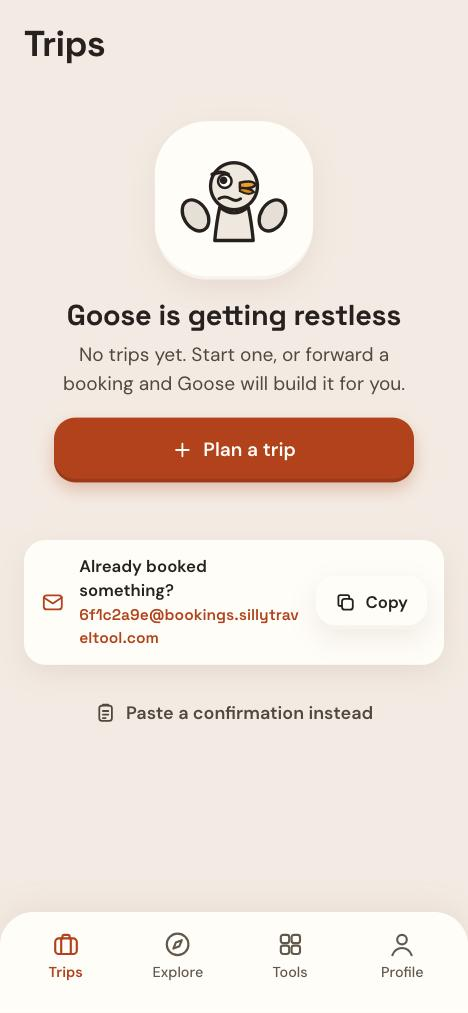
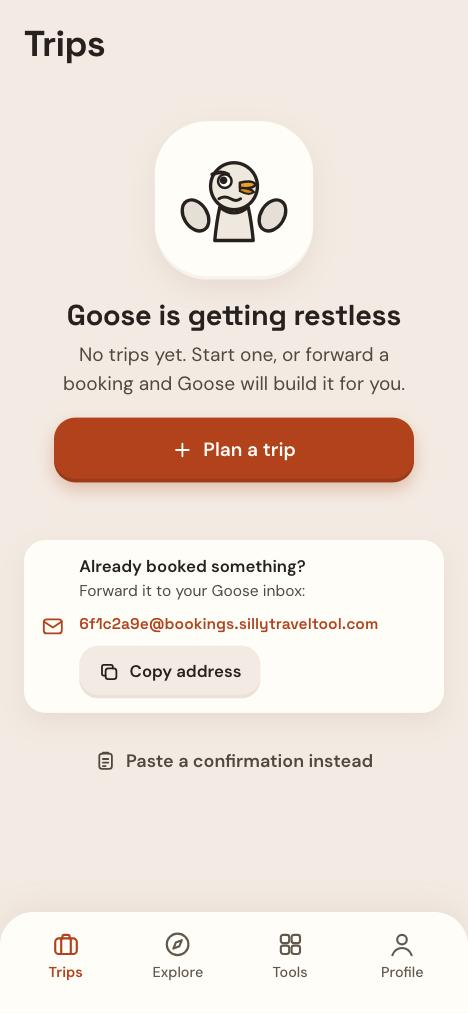
Clay finish: demo APK flag, Android splash colour, inbox address layout, refreshed screenshots, report
- VITE_DEMO=1 builds always run the offline demo (for a demo APK); production still compiles it out
- Android 12+ system splash uses surface-page (light) / dark page colour instead of the default lavender
- Settings and Trips empty state show the inbox address on its own line with the copy button below
- Re-took screenshots for screens the review fixes changed; Android splash + welcome from the emulator
- docs/CLAY_REPORT.md: what changed, review results, decisions needed, known issues

Changed region(s): [[0.0299, 0.5508, 0.9573, 0.7651]]

diff --git a/src/screens/trips/TripList.jsx b/src/screens/trips/TripList.jsx
@@ -188,9 +188,12 @@ export default function TripList({ onOpenToday, onOpenRecap, onImport }) {
             No trips yet. Start one, or forward a booking and Goose will build it for you.
           </EmptyState>
           {address && (
-            <Banner variant="card" icon="mail" title="Already booked something?"
-              action={<Button size="sm" variant="secondary" icon={copied ? 'check' : 'copy'} onClick={copy}>{copied ? 'Copied' : 'Copy'}</Button>}>
-              <span className="trips-address"><InboxAddress address={address} /></span>
+            <Banner variant="card" icon="mail" title="Already booked something?">
+              <Stack gap={2} align="start">
+                <span>Forward it to your Goose inbox:</span>
+                <span className="trips-address"><InboxAddress address={address} /></span>
+                <Button size="sm" variant="secondary" icon={copied ? 'check' : 'copy'} onClick={copy}>{copied ? 'Copied' : 'Copy address'}</Button>
+              </Stack>
             </Banner>
           )}
           <Button variant="ghost" icon="clipboard" onClick={onImport}>Paste a confirmation instead</Button>

diff --git a/src/ui/ui.css b/src/ui/ui.css
@@ -96,7 +96,7 @@ h1.tone-inverse, h2.tone-inverse, h3.tone-inverse { color: var(--ink-inverse); }
 .c-btn--primary { background: var(--accent-fill); color: var(--on-accent); box-shadow: var(--shadow-accent); }
 .c-btn--primary:hover:not(:disabled) { background: var(--accent-fill-hover); }
 .c-btn--secondary { background: var(--surface-card); color: var(--ink); box-shadow: var(--shadow-card), var(--shadow-lip); }
-.c-card .c-btn--secondary, .c-sheet .c-card .c-btn--secondary { background: var(--surface-page); box-shadow: var(--shadow-lip); }
+.c-card .c-btn--secondary, .c-banner--card .c-btn--secondary, .c-sheet .c-card .c-btn--secondary { background: var(--surface-page); box-shadow: var(--shadow-lip); }
 .c-btn--dark { background: var(--surface-inverse); color: var(--ink-inverse); box-shadow: var(--shadow-inverse); }
 .c-btn--inverse { background: var(--surface-card); color: var(--ink); }
 .c-btn--ghost { background: transparent; color: var(--ink-secondary); }

diff --git a/src/lib/supabase.js b/src/lib/supabase.js
@@ -9,10 +9,10 @@ if (!supabaseUrl || !supabaseAnonKey) {
   throw new Error('Missing Supabase environment variables')
 }
 
-// Demo mode (offline fixtures for screenshots and design review): `?demo` in dev builds,
-// or any build made with VITE_DEMO=1. Production builds compile this to false.
-export const isDemo = (import.meta.env.DEV || import.meta.env.VITE_DEMO === '1') &&
-  typeof location !== 'undefined' && new URLSearchParams(location.search).has('demo')
+// Demo mode (offline fixtures for screenshots and design review): `?demo` in dev builds, or
+// always in a build made with VITE_DEMO=1 (e.g. a demo APK). Production builds compile this to false.
+export const isDemo = import.meta.env.VITE_DEMO === '1' ||
+  (import.meta.env.DEV && typeof location !== 'undefined' && new URLSearchParams(location.search).has('demo'))
 
 export const supabase = isDemo ? createDemoClient() : createClient(supabaseUrl, supabaseAnonKey, {
   auth: {

diff --git a/src/screens/profile/SettingsView.jsx b/src/screens/profile/SettingsView.jsx
@@ -102,8 +102,8 @@ export default function SettingsView({ onBack, onDelete }) {
         <Card variant="raised">
           <Text variant="body" tone="secondary">Forward any booking confirmation to this address and it lands in the right trip.</Text>
           {bookingEmail ? (
-            <Stack row gap={3}>
-              <Text variant="body" weight={600} tone="accent" className="grow profile-address"><InboxAddress address={bookingEmail} /></Text>
+            <Stack gap={3} align="start">
+              <Text variant="body" weight={600} tone="accent" className="profile-address"><InboxAddress address={bookingEmail} /></Text>
               <Button size="sm" icon={copied ? 'check' : 'copy'} onClick={handleCopy} aria-label={copied ? 'Inbox address copied' : 'Copy inbox address'}>
                 {copied ? 'Copied' : 'Copy'}
               </Button>

diff --git a/docs/CLAY_REPORT.md b/docs/CLAY_REPORT.md
@@ -1,0 +1,101 @@
+# Clay rebuild report (2026-10-21)
+
+The whole app is rebuilt on the signed-off Clay design, committed stage by stage on `main`
+(`d0e108a` → final commit). The web build, the Android debug build and the emulator all run it. The live Supabase project was not touched.
+
+## Status
+
+| Check | Result |
+|---|---|
+| `npm run build` | Passes; postbuild check confirms no demo fixtures in `dist/` |
+| `npm run lint` | 0 errors, 27 warnings (hook-dependency and fast-refresh notes, see below) |
+| `npm run check:clay` | Passes: no emoji, raw colours or inline styles anywhere in `src/` |
+| Android | `npm run build:native` + `assembleDebug`, installed on `STT_Pixel`; launcher icon, cream splash, welcome screen verified |
+| Android back button | Verified on the emulator: closes trip → Today; tool → Tools hub → Trips tab → minimises the app |
+| Screenshots | 97 in `docs/screenshots/clay/`, every screen in light and dark (`NN-area-view-light|dark.jpg`) |
+
+## What changed
+
+**Foundations (stage 0)**
+- `npm run tokens` generates `src/styles/tokens.css` (light + dark) from `docs/brand/brand-tokens.json` and the proposed
+  `docs/brand/dark-tokens.json`; `--report` prints every contrast pair.
+- 124 custom stroke icons (24px grid, 1.8 stroke, round caps) behind one `<Icon name>`; no icon library.
+- `src/ui/`: Button, IconButton, Card (raised/inverse/group/tile), ListRow, IconTile + booking categories,
+  SegmentedControl, BottomNav, Sheet, Dialog, Field, Chip, Banner, EmptyState, ErrorState ("Goose lost the plot"),
+  Loading (text + progress bar), Switch, Toast, Screen/Header/Section, Text, Stack, GooseMark (master Goose, expression
+  changes only), Logo (luggage tag + stacked wordmark).
+- `src/lib/tokens.js` is now a thin layer over CSS variables; badge icons are icon names.
+- Dev only: `?gallery` component gallery; `?demo` offline fixtures (`?demo&fail=guide|ai`, `&slow=1`, `&empty=1`,
+  `&signedout=1`) used for every screenshot. A `VITE_DEMO=1` build makes a demo APK.
+
+**Logo and icons (stage 1):** favicon (svg/ico/png), apple-touch, PWA 192/512 + maskable, Android adaptive launcher
+icon, light/dark splash, offline page, app loading splash, lockup on welcome and Settings. `scripts/build-icons.mjs`
+regenerates them all.
+
+**Shell (stage 2):** four tabs Trips · Explore · Tools · Profile, no centre HONK button, no counters; routing is still
+`SCREENS[activeTab]`.
+
+**Screens (stage 3)**
+- *Auth + onboarding:* welcome with the lockup, Google/email, Terms + Privacy links and the AI line; all email flows;
+  one-time onboarding (Goose inbox step + location pre-prompt) replaces the permanent inbox banner.
+- *Trips:* Today view during a trip (real local weekday, next-up hero that opens the booking, weather + hint, tomorrow,
+  HONK, later today); list with on-the-road hero, upcoming countdowns, invites; empty state; past trips open a recap
+  (archive weather, badges earned, share, go again); trip form and paste-a-confirmation sheet.
+- *Trip detail:* the 1,479-line screen is now a container over `src/screens/trips/detail/*` (Plan · Weather · Pack,
+  add-booking sheet incl. restaurant reservations and transport details, booking detail, travelers, AI loading/error).
+- *Explore:* city guide (Know · Eat · See · Move · Events, still lazy per section) and HONK in one tab, with
+  "Suggested by Goose (AI)" + report on every AI surface.
+- *Tools:* hub, Currency, SOS (112 shown as all emergencies), Translate (cache order unchanged), Tip & split.
+- *Profile:* Goose score hero, badges, travel documents with masked passport + Reveal, loyalty cards, Settings
+  (System · Light · Dark), delete-account screen (UI only, see below).
+
+**Dark mode:** follows the phone by default; Settings can force Light or Dark. Every value and contrast ratio is in
+`docs/brand/DARK_MODE.md` for sign-off.
+
+## Two-pass review
+
+Both passes ran on the finished build. Fixed in `Clay review fixes`:
+- **Security:** data-driven links (booking URLs from email, AI/maps URLs) only render as `http(s)` (`src/lib/safeUrl.js`).
+  Demo code can't reach production (no import-time side effects + postbuild check).
+- **Android:** hardware back button handled via a shared back stack (`src/lib/backStack.js`, `src/native/backButton.js`);
+  Escape closes only the top modal; dialogs trap focus; sheets don't pop the keyboard on open.
+- **Bugs:** trip phase checks the end date before status; Weather and wallet no longer refetch on every token refresh;
+  realtime refresh ordered by an existing column and guarded against the wrong trip; Today/restored-trip race;
+  HONK no longer triggers a guide load; DST-safe "tomorrow"; null airport in directions; onboarding never shown without a
+  profile row; currency rates cached offline (correct host in the service worker).
+- **UX:** 44px hit areas on small links, neutral rating chips (no colour-only meaning), selected chips as an accent ring
+  in both themes, sentence-case badge copy and "Goose" naming, inbox address wraps only before "@", wind unit follows
+  the temperature unit, 24-hour times, password hint stays visible.
+
+## Needs your decision
+
+1. **Dark palette sign-off** — `docs/brand/DARK_MODE.md`.
+2. **Past trips are read-only** (no add/delete/tick). The design asks for a recap instead of an edit screen, but it's a
+   behaviour change from before.
+3. **Account deletion** is UI only: after typing DELETE the user is asked to send a pre-filled email
+   (hello@sillytraveltool.com). Real deletion (Edge Function) is Phase 2 and required by Apple 5.1.1(v) / Google Play.
+4. **Terms and Privacy pages** are linked (`/terms`, `/privacy`) but don't exist on the site yet.
+5. **Booking time zones** (pre-existing): times are stored in the device's zone at entry; a phone that changes time zone
+   shows shifted times. Fixing it means storing an IANA zone per booking.
+
+## Known issues
+
+- **Emulator rendering:** on the software-rendered `STT_Pixel`, the WebView doesn't paint the strip above the first
+  drop-shadowed card on scrolling tab screens (Today, Tools). A DevTools capture of the same page is correct, the DOM is
+  correct, and removing that card's shadow makes the strip paint. It looks like a SwiftShader raster bug; please check
+  once on a real Android phone. If it shows there too, the fix is to drop the outer shadow on the first card.
+- Status-bar strip on Android 15+ stays system grey (edge-to-edge ignores `setBackgroundColor`); a native edge-to-edge
+  pass belongs in Phase 3.
+- Not built from the boards: free-text translation (no backend), SOS "Share location" and medical card, live rate on the
+  Tools hub, "Trusted traveler" documents, data export.
+- Lint warnings left on purpose: hook-dependency warnings that match the original fetch-once patterns, and
+  fast-refresh notes on files that export helpers next to components.
+- `react-router-dom` is still a dead dependency; several unused `uiStore` fields remain (store code was kept unchanged).
+- iOS not built (Xcode not installed).
+
+## How to check it yourself
+
+```bash
+npm run dev
+```
+Then open `http://localhost:5173/?demo` (any screen, offline) or `http://localhost:5173/?gallery` (components).
